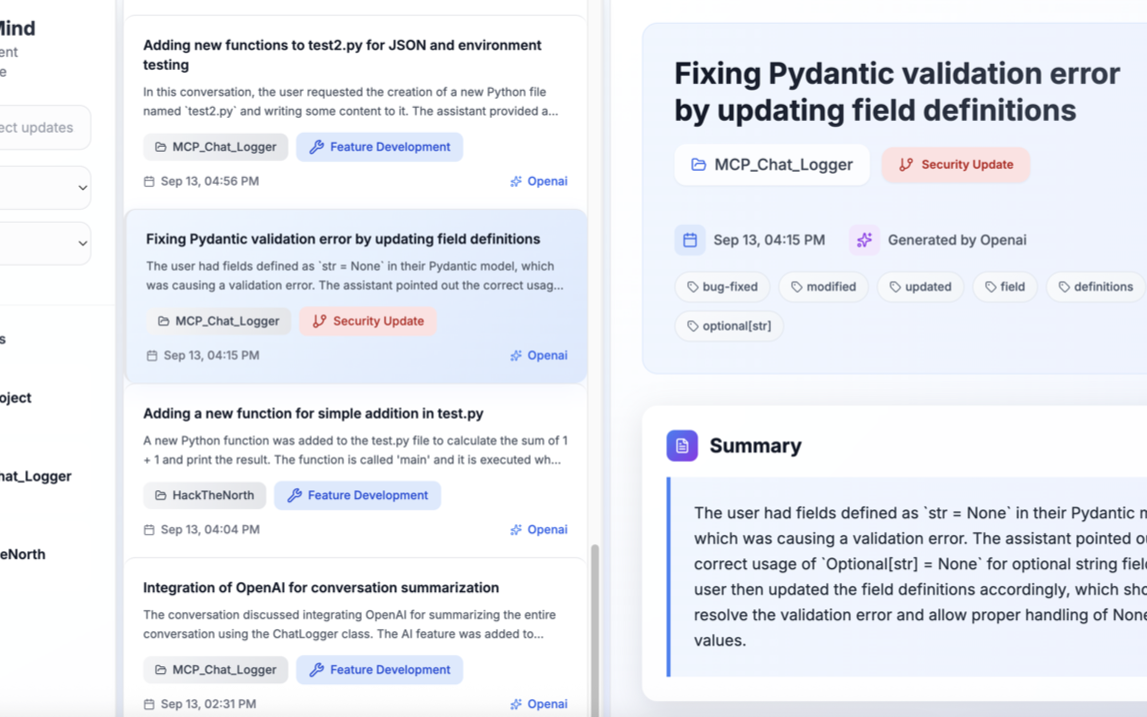
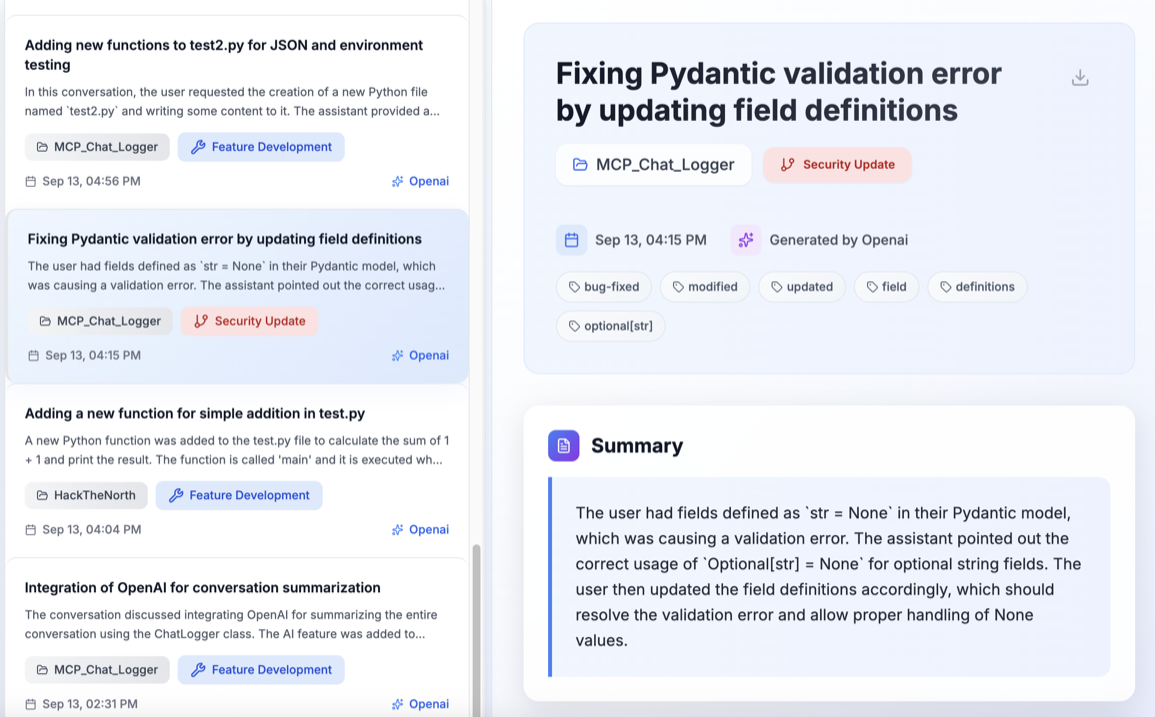
Homepage: lead with role, proof and contact for recruiters
- Subtitle names the role and graduation date; the bio says what I build
  instead of repeating the degree.
- Three proof lines under the bio (USENIX Security '26 co-first author and
  the $400 bounty, 1,280+ Job Monitor runs, 204 tests in CI), each taken
  from a project page, then Email / LinkedIn / GitHub buttons.
- Experience and education show the role or degree as the bold line.
- Skills move below research so projects come up sooner on phones.
- Project cards: same 16:10 image shape, smaller titles, and Live demo /
  Paper / Devpost links; the CodeMind thumbnail no longer cuts off its
  sidebar.
- Papers say "Co-first author" / "First author" in words.
- Link previews: Open Graph tags on, with a 1200x630 card image and a
  recruiter-facing site description. Removed the unused Unsplash credit
  and the theme's example PDF; smaller contact icons at the bottom.

Claude-Session: https://claude.ai/code/session_01H6JoBrR1RSqRdoPetduxNY

diff --git a/_pages/about.md b/_pages/about.md
@@ -2,7 +2,17 @@
 layout: about
 title: about
 permalink: /
-subtitle: MMath in Computer Science · University of Waterloo
+subtitle: Software Engineer · MMath in Computer Science, University of Waterloo · Graduating April 2027
+
+# Three proof lines under the bio, then contact buttons (see _layouts/about.liquid).
+# Every number here is from a project page; update them together.
+highlights:
+  - value: USENIX Security ’26
+    text: "co-first author. Our tool found 183 APIs in WeChat, Alipay, Baidu and QQ that skip permission checks; Alipay paid a $400 bug bounty."
+  - value: 1,280+
+    text: successful runs of Job Monitor since July 2026, checking 106 career feeds every 15 minutes.
+  - value: "204"
+    text: automated tests, run in CI on every push, in LeetCode Tracker, my React + FastAPI app.
 
 selected_projects: true # featured project cards (see _layouts/about.liquid)
 selected_papers: true # includes a list of papers marked as "selected={true}"
@@ -22,4 +32,4 @@ latest_posts:
   limit: 3 # leave blank to include all the blog posts
 ---
 
-I am a master's student at the University of Waterloo, Master of Mathematics (MMath) in Computer Science, supervised by [Yousra Aafer](https://cs.uwaterloo.ca/~yaafer/).
+I build backend services in Python and program-analysis tools in Java. Supervised by [Yousra Aafer](https://cs.uwaterloo.ca/~yaafer/).

diff --git a/_projects/permscope.md b/_projects/permscope.md
@@ -6,6 +6,9 @@ img: assets/img/projects/thumb_permscope.png
 importance: 3
 category: featured
 github: https://github.com/capy-zhiao/PERMSCOPE_
+links:
+  - label: Paper
+    url: https://www.usenix.org/conference/usenixsecurity26/presentation/wei-zhiao
 ---
 
 [Paper (USENIX Security ’26)](https://www.usenix.org/conference/usenixsecurity26/presentation/wei-zhiao) · [PDF](https://www.usenix.org/system/files/usenixsecurity26-wei-zhiao.pdf) · [Poster]({{ '/assets/pdf/PermScope_poster_USENIX26.pdf' | relative_url }}) · [Code on GitHub](https://github.com/capy-zhiao/PERMSCOPE_) · Research project with six authors; I am co-first author with Chao Wang

diff --git a/_projects/job_monitor.md b/_projects/job_monitor.md
@@ -6,6 +6,9 @@ img: assets/img/projects/thumb_job_monitor.png
 importance: 1
 category: featured
 github: https://github.com/capy-zhiao/Job_Monitor
+links:
+  - label: Live demo
+    url: https://capy-zhiao.github.io/Job_Monitor/
 ---
 
 [Live dashboard](https://capy-zhiao.github.io/Job_Monitor/) · [Code on GitHub](https://github.com/capy-zhiao/Job_Monitor) · Solo project, running since July 2026

diff --git a/_projects/codemind.md b/_projects/codemind.md
@@ -6,6 +6,9 @@ home_line: a Hack the North 2025 prototype where I built the backend for a team 
 img: assets/img/projects/thumb_codemind.png
 importance: 2
 category: hackathon
+links:
+  - label: Devpost
+    url: https://devpost.com/software/gitaihack
 ---
 
 [Devpost](https://devpost.com/software/gitaihack) · Hack the North 2025 · Team of three; I built the backend · Hackathon prototype
